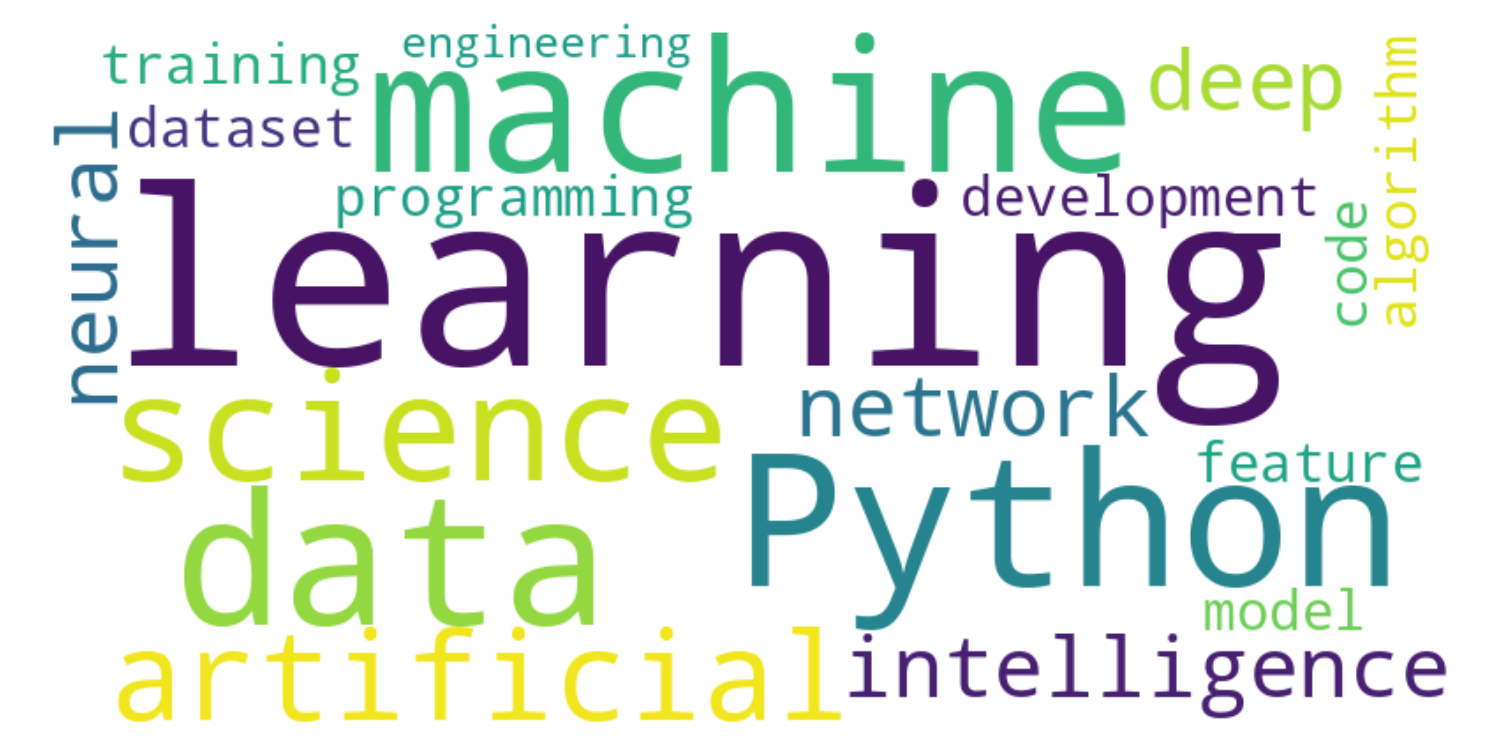
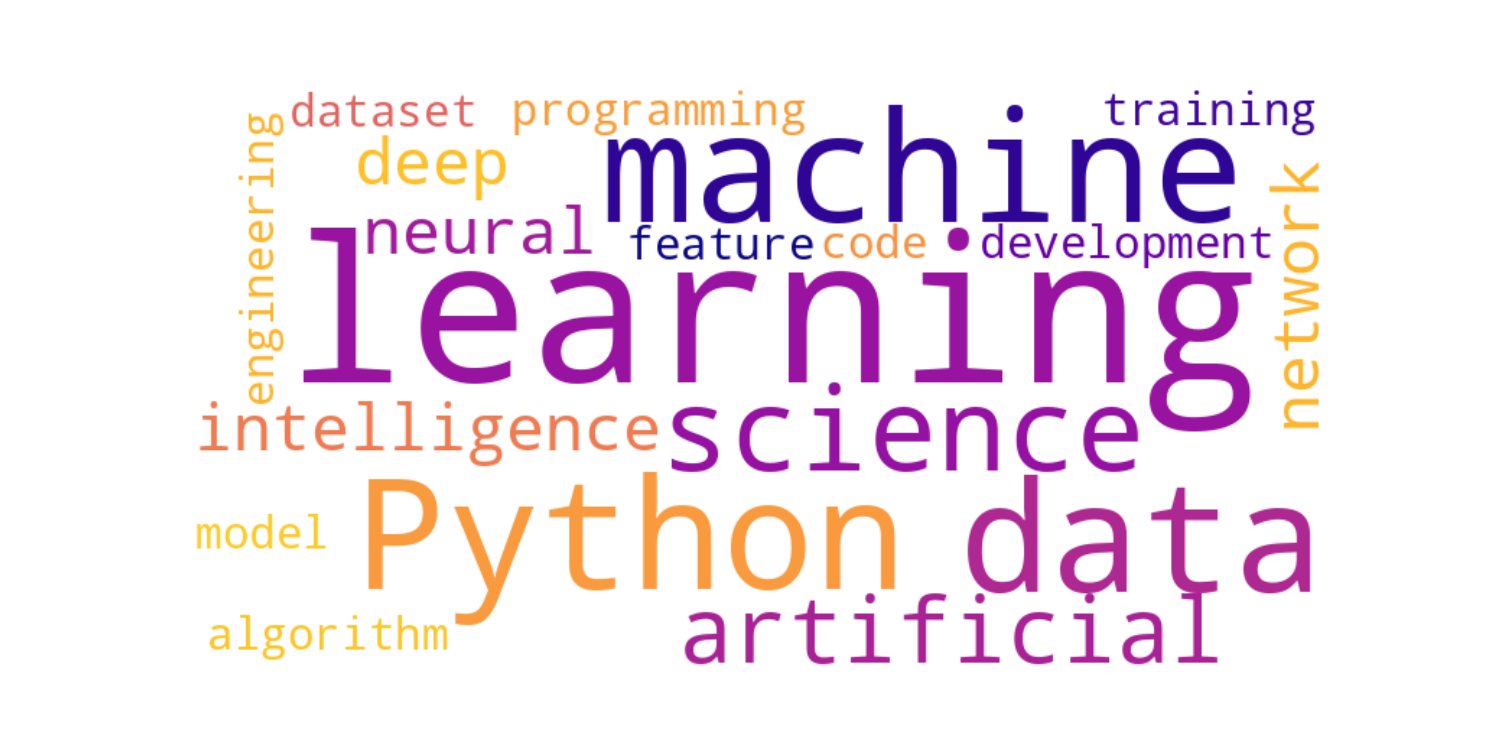
파이썬 한국어 자연어처리! Okt Open Korean Text

diff --git a/12_텍스트_데이터_분석/04_실습자료_wordcloud_KoNLPy.py b/12_텍스트_데이터_분석/04_실습자료_wordcloud_KoNLPy.py
@@ -1,0 +1,40 @@
+import matplotlib.pyplot as plt
+from wordcloud import WordCloud
+
+text = """
+Python machine learning data science artificial intelligence
+deep learning neural network programming code development
+algorithm model training dataset feature engineering
+"""
+
+def 실습1():
+    # TODO: WordCloud 객체 생성 (기본값으로)
+    wc = WordCloud(
+
+    ).generate(text)
+    # TODO: text 로 WordCloud 생성
+
+
+def 실습2():
+    wc = WordCloud(
+    width=800,
+    height=400,# TODO: 너비 800, 높이 400
+    background_color='white',# TODO: 배경색 흰색
+    max_words=100,# TODO: 최대단어 100개
+    colormap='plasma'# TODO: 색상테마 plasma
+    ).generate(text)
+
+    # TODO: figure 사이즈 (10, 5)
+    plt.figure(figsize=(10,5))
+    # TODO: wc 이미지 출력, 보간법 bilinear
+    plt.imshow(wc,interpolation='bilinear')
+    # TODO: 축 끄기
+    plt.axis('off') # x축 y축 그릴 필요 없으므로 축 제거 axis 축
+    # TODO: 여백 자동조정
+    plt.tight_layout
+    # TODO: 'wordcloud.png' 로 저장, dpi=150
+    plt.savefig('wordcloud.png', dpi=150)
+    # TODO: 화면에 출력
+    plt.show()
+실습1()
+실습2()
